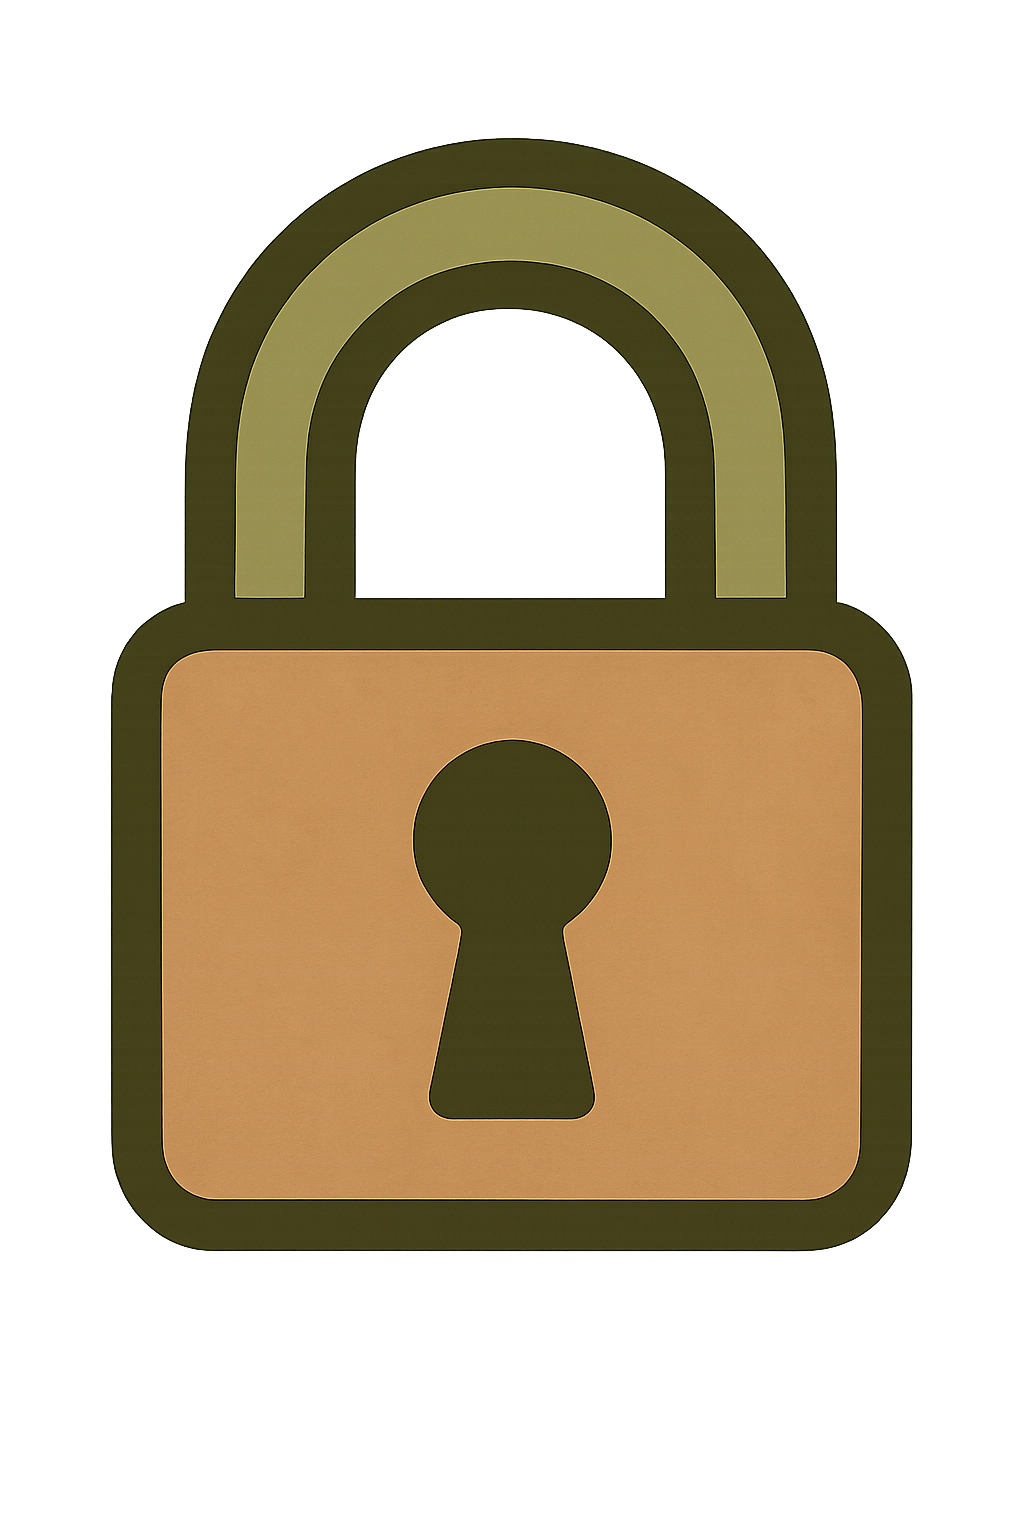
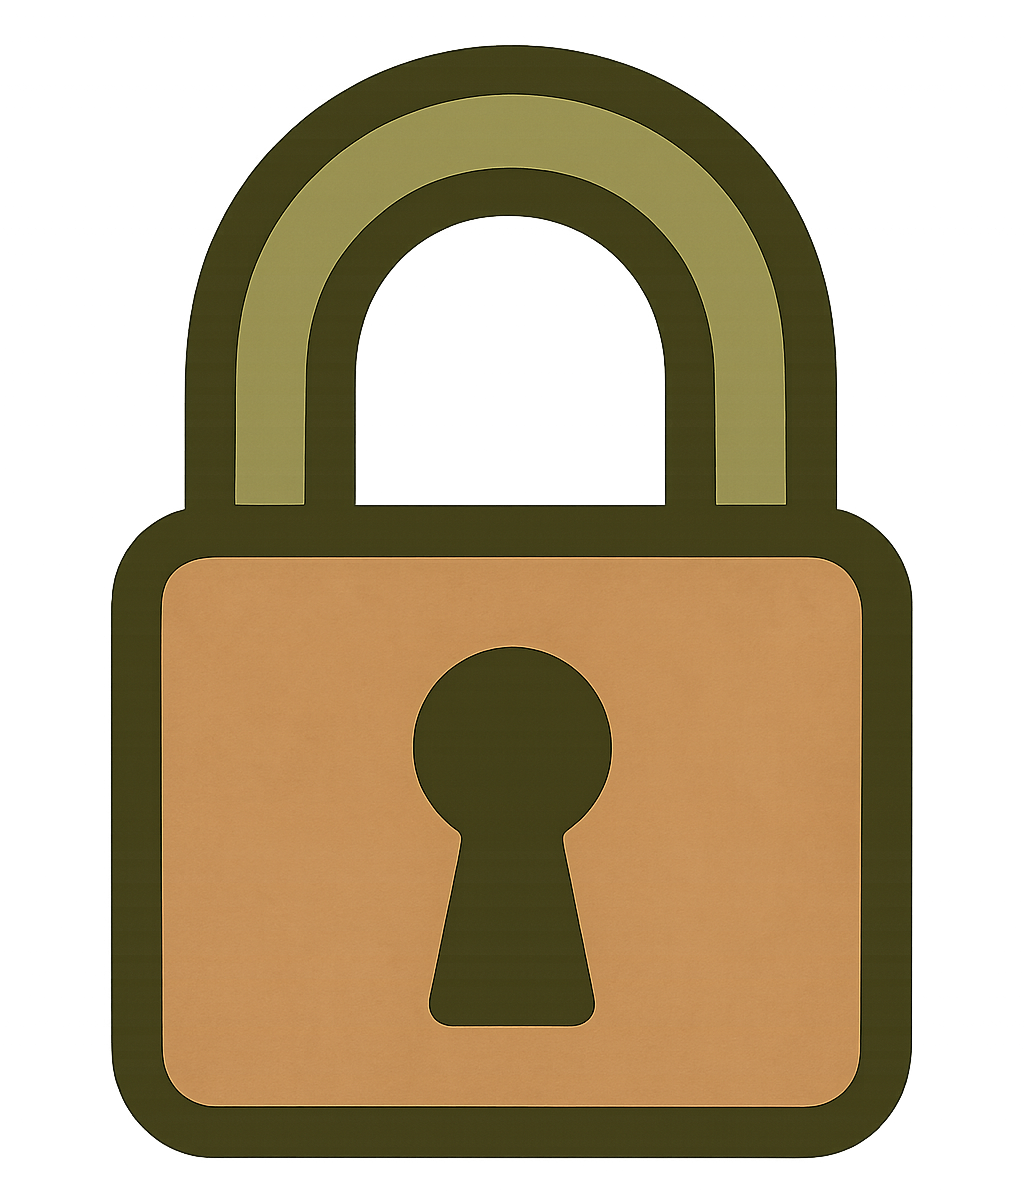
controversial...

diff --git a/full_game.py b/full_game.py
@@ -35,10 +35,12 @@ backpack = False
 labubu = False
 # ---Quests---
 # Saloon
+saloon_complete = False
 num_aces = 0
 num_selfies = 0
 num_beers = 0
 # Work
+work_complete=False
 num_customers = 0
 num_rows = 0
 hydration = 0
@@ -59,12 +61,14 @@ pin = pygame.image.load('data/image/pin.png')
 volume_on_img = pygame.image.load("data/image/volume_on.png")
 volume_off_img = pygame.image.load("data/image/volume_off.png")
 coin_img = pygame.image.load("data/image/coin.png")
+lock = pygame.image.load("data/image/lock.png")
 
 # --- Rescale images ---
 background = pygame.transform.scale(background, (1000, 700))
 title_image = pygame.transform.scale(title_image, (500, 300))
 pin = pygame.transform.scale(pin, (100,100))
 coin_img = pygame.transform.scale(coin_img, (80, 80))
+lock = pygame.transform.scale(lock, (50,50))
 
 # --- Create buttons ---
 button_rect_begin = pygame.Rect(400, 500, 200, 60)
@@ -98,6 +102,10 @@ while running:
     screen.fill((255, 255, 255))
     mouse_pos = pygame.mouse.get_pos()
 
+    if num_customers >= 50 and num_rows >= 100 and hydration >= 15:
+        work_complete = True
+    if num_aces >= 5 and num_selfies >= 50 and num_beers >= 50:
+        saloon_complete = True
     for event in pygame.event.get():
         if event.type == pygame.QUIT:
             running = False
@@ -107,21 +115,20 @@ while running:
                 if button_rect_begin.collidepoint(mouse_pos):
                     screen_mode = "home"
             if screen_mode == "home":
-                if button_rect_salon.collidepoint(mouse_pos):
-                    num_coins, happiness, volume_on = run_salon_game(num_coins, happiness, bow, gem, backpack, labubu, HAPPINESS_MAX, volume_on)
+                if button_rect_work.collidepoint(mouse_pos):
+                    num_coins, num_customers, num_rows, hydration, happiness, volume_on = run_work_game(num_coins, num_customers, num_rows, hydration, bow, gem, backpack, labubu, happiness,HAPPINESS_MAX, volume_on)
                     button_text_coin = font.render(str(num_coins) + " Prumpi Coins", True, (0, 0, 0))
-                elif button_rect_saloon.collidepoint(mouse_pos):
-                    num_coins, num_aces, num_selfies, num_beers, happiness, volume_on = run_saloon_game(num_coins, num_aces, num_selfies, num_beers, bow, gem, backpack, labubu, happiness, HAPPINESS_MAX, volume_on)
-                    button_text_coin = font.render(str(num_coins) + " Prumpi Coins", True, (0, 0, 0))
+                if work_complete:
+                    if button_rect_salon.collidepoint(mouse_pos):
+                        num_coins, happiness, volume_on = run_salon_game(num_coins, happiness, bow, gem, backpack, labubu, HAPPINESS_MAX, volume_on)
+                        button_text_coin = font.render(str(num_coins) + " Prumpi Coins", True, (0, 0, 0))
+                if saloon_complete:
+                    if button_rect_saloon.collidepoint(mouse_pos):
+                        num_coins, num_aces, num_selfies, num_beers, happiness, volume_on = run_saloon_game(num_coins, num_aces, num_selfies, num_beers, bow, gem, backpack, labubu, happiness, HAPPINESS_MAX, volume_on)
+                        button_text_coin = font.render(str(num_coins) + " Prumpi Coins", True, (0, 0, 0))
                 elif button_rect_shop.collidepoint(mouse_pos):
                     num_coins, happiness, bow, gem, backpack, labubu, volume_on = run_store(num_coins, happiness, bow, gem, backpack, labubu, HAPPINESS_MAX, volume_on)
                     button_text_coin = font.render(str(num_coins) + " Prumpi Coins", True, (0, 0, 0))
-                elif button_rect_work.collidepoint(mouse_pos):
-                    num_coins, num_customers, num_rows, hydration, happiness, volume_on = run_work_game(num_coins, num_customers, num_rows, hydration, bow, gem, backpack, labubu, happiness,HAPPINESS_MAX, volume_on)
-                    button_text_coin = font.render(str(num_coins) + " Prumpi Coins", True, (0, 0, 0))
-
-
-
                 elif button_volume.collidepoint(mouse_pos):
                     if volume_on == True:
                         pygame.mixer.music.set_volume(0)
@@ -143,9 +150,13 @@ while running:
     elif screen_mode == "home":
         screen.blit(background, (0,0))
         screen.blit(pin, button_rect_salon)
+        if not saloon_complete:
+            screen.blit(lock, (button_rect_salon.x+20, button_rect_salon.y))
         screen.blit(pin, button_rect_saloon)
-        screen.blit(pin, button_rect_shop)
+        if not work_complete:
+            screen.blit(lock, (button_rect_saloon.x+20, button_rect_saloon.y))
         screen.blit(pin, button_rect_work)
+        screen.blit(pin, button_rect_shop)
 
         screen.blit(coin_img, (coin_button_home.x, coin_button_home.y))
         screen.blit(button_text_coin, (coin_button_home.x + 100, coin_button_home.y + 20))

diff --git a/work.py b/work.py
@@ -181,7 +181,7 @@ def run_work_game(num_coins, num_customers, num_rows, hydration, bow, gem, backp
     if num_customers < 50:
         quest1 = False
     else:
-        quest2 = True
+        quest1 = True
     if num_rows < 100:
         quest2 = False
     else:
@@ -410,16 +410,16 @@ def run_work_game(num_coins, num_customers, num_rows, hydration, bow, gem, backp
 
             pygame.draw.rect(screen, button_color, button_rect_dispenser, border_radius=5)
 
-            if draining:
-                pygame.draw.line(screen, (100, 149, 237), (460, 450), (350,440), 3)
-            else:
-                pygame.draw.line(screen, (255,255,255), (460, 450), (350,440), 3)
-
             screen.blit(prumpi_water, dino_pos_water)
 
             if drink_active:
                 pygame.draw.rect(screen, button_color, button_rect_drink, border_radius=12)
                 screen.blit(button_text_drink, (button_rect_drink.x+20, button_rect_drink.y))
+
+                if draining:
+                    pygame.draw.line(screen, (100, 149, 237), (460, 450), (350, 440), 3)
+                else:
+                    pygame.draw.line(screen, (255, 255, 255), (460, 450), (350, 440), 3)
 
             current_time = pygame.time.get_ticks()
             if water_text_display:
@@ -436,6 +436,7 @@ def run_work_game(num_coins, num_customers, num_rows, hydration, bow, gem, backp
 
             pygame.draw.rect(screen, button_color, button_rect_home, border_radius=12)
             screen.blit(button_text_home, (button_rect_home.x + 10, button_rect_home.y + 5))
+
         elif screen_mode == "log":
             screen.blit(work_background, (0, 0))
 

diff --git a/saloon.py b/saloon.py
@@ -241,7 +241,7 @@ def run_saloon_game(num_coins, num_aces, num_selfies, num_beers, bow, gem, backp
     if num_aces < 5:
         quest1 = False
     else:
-        quest2 = True
+        quest1 = True
     if num_selfies < 50:
         quest2 = False
     else:
